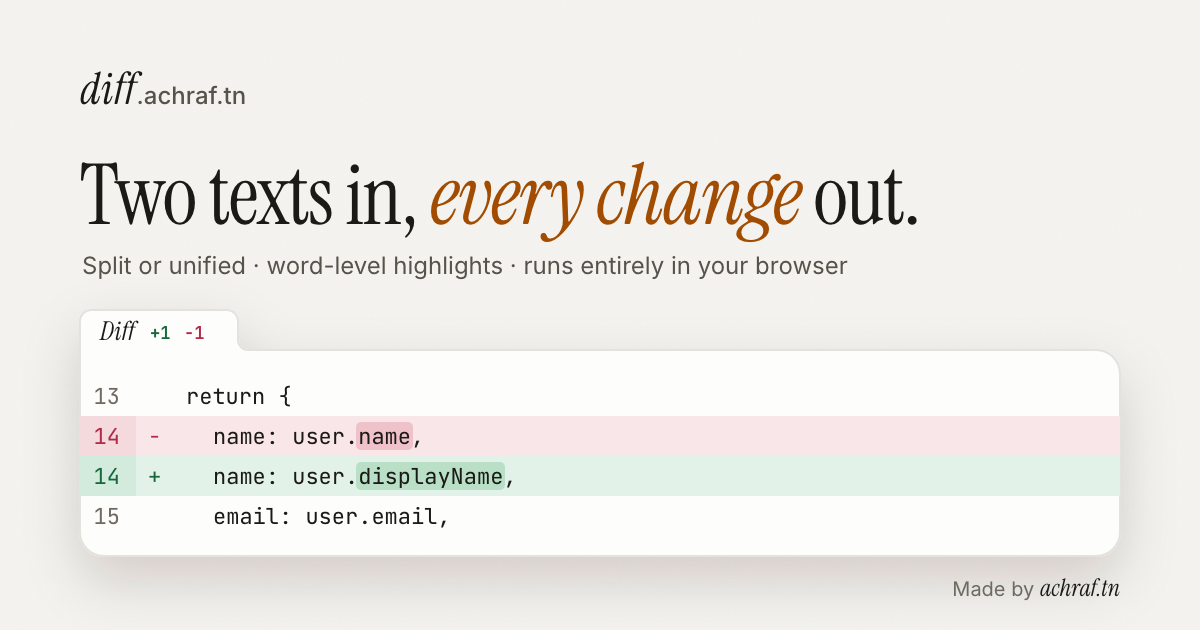
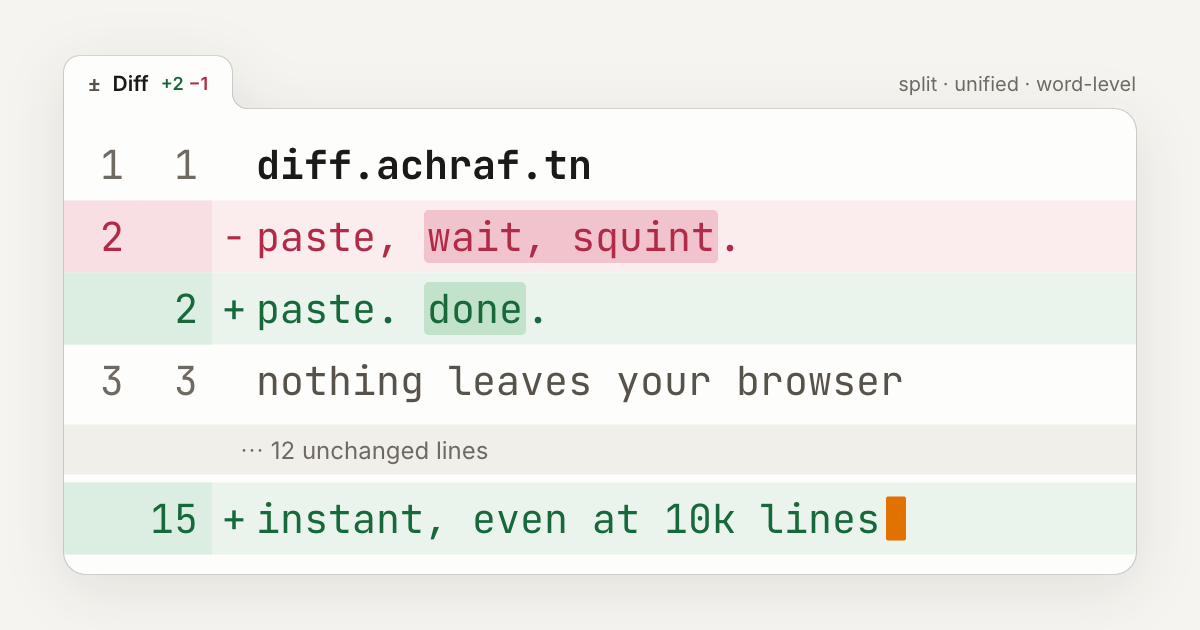
feat: light gutter-style OG image

diff --git a/index.html b/index.html
@@ -25,7 +25,7 @@
     <meta property="og:image:type" content="image/png" />
     <meta property="og:image:width" content="1200" />
     <meta property="og:image:height" content="630" />
-    <meta property="og:image:alt" content="diff.achraf.tn — a side-by-side text diff with green and rose highlights" />
+    <meta property="og:image:alt" content="diff.achraf.tn — a unified diff card: paste, wait, squint becomes paste. done." />
     <meta name="twitter:card" content="summary_large_image" />
     <meta name="twitter:title" content="diff — Compare text instantly" />
     <meta name="twitter:description" content="Paste two texts, see every change. Private: runs in your browser." />
